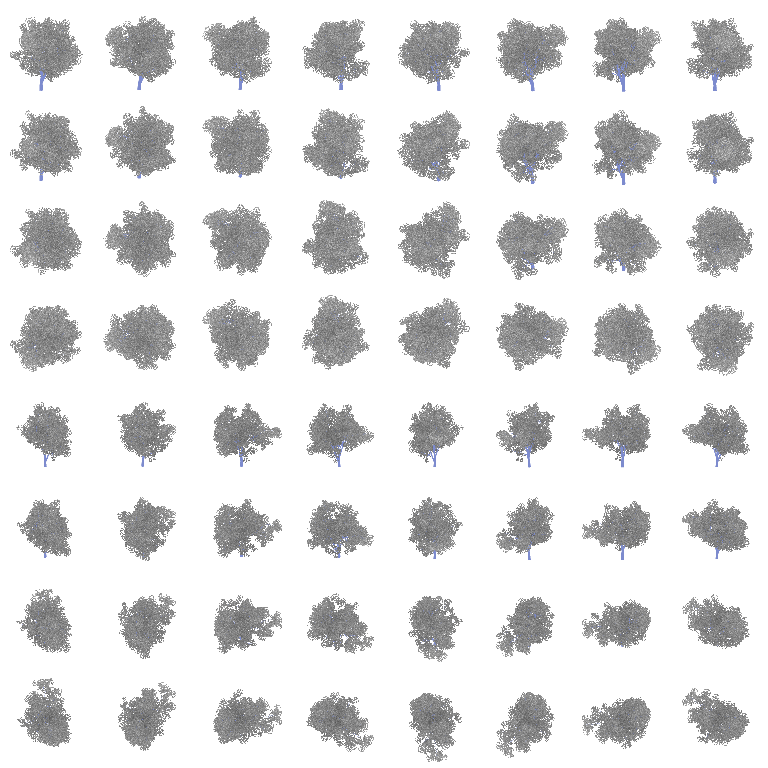
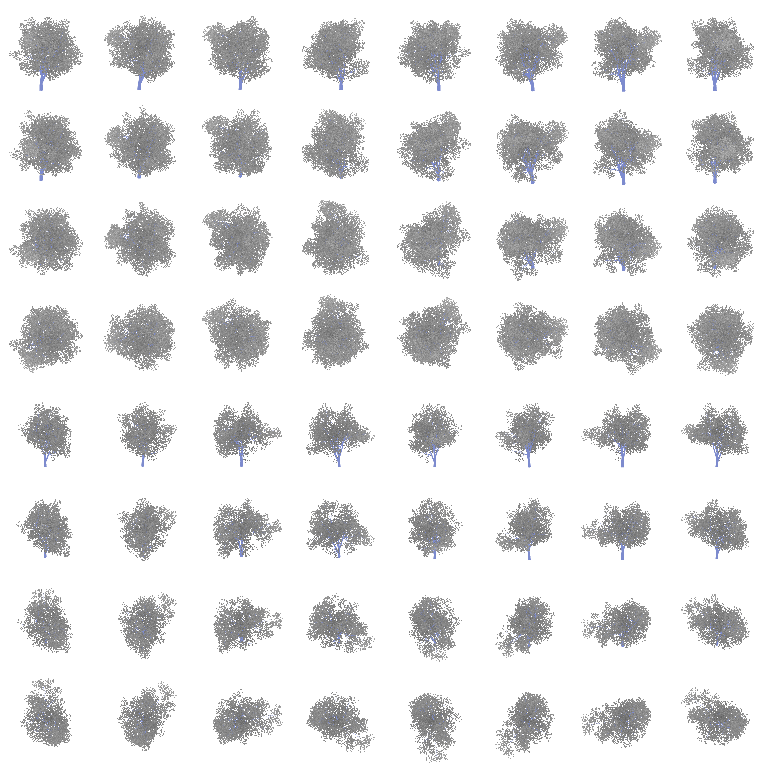
trees-real: real-sized leaves (3-7 cm in sprigs on a 512 px card), upload only the instances in use

diff --git a/v2/trees-real.js b/v2/trees-real.js
@@ -137,7 +137,7 @@ export async function installRealTrees({ THREE, scene, group, redraw, rows, grou
     const col = leafTint(sp);
     const m = new THREE.MeshPhysicalMaterial({ specularIntensity: L.SPECULAR, map: (mid ? leafTexesMid : leafTexes)[kind], color: col, vertexColors: true, side: THREE.DoubleSide, alphaTest: L.ALPHA_CUT, alphaToCoverage: msaa, roughness: L.LEAF_ROUGHNESS, metalness: 0 });
     m.onBeforeCompile = (sh) => {
-      fadeShader(sh, false, mid ? 'vMapUv * 256.0' : 'vMapUv * 256.0', mid ? [-99, -98] : undefined);
+      fadeShader(sh, false, mid ? 'vMapUv * 512.0' : 'vMapUv * 512.0', mid ? [-99, -98] : undefined);
       // the cards' normals are the crown's own (outward + up): do not flip them on the back face
       sh.fragmentShader = sh.fragmentShader.replace('#include <normal_fragment_begin>', THREE.ShaderChunk.normal_fragment_begin.replace('normal *= faceDirection;', ''));
     };
@@ -266,6 +266,8 @@ export async function installRealTrees({ THREE, scene, group, redraw, rows, grou
     arr[o + 12] = x; arr[o + 13] = y; arr[o + 14] = z; arr[o + 15] = 1;
   };
   const JIT = L.SHADE_JITTER;
+  // upload only the instances in use (the buffers are sized for every tree of the bucket)
+  const up = (a, n) => { a.clearUpdateRanges(); a.addUpdateRange(0, n * a.itemSize); a.needsUpdate = true; };
   function update(camera) {
     const t0 = performance.now();
     camera.updateMatrixWorld();
@@ -316,11 +318,11 @@ export async function installRealTrees({ THREE, scene, group, redraw, rows, grou
       for (let vi = 0; vi < buckets[si].length; vi++) {
         const bk = buckets[si][vi];
         for (const [meshes, cnt] of [[bk.near, nearN[si][vi]], [bk.mid, midN[si][vi]]]) {
-          for (const m of [meshes.leaf, meshes.trunk]) { m.count = cnt; m.visible = cnt > 0; if (cnt) { m.instanceMatrix.needsUpdate = true; m.instanceColor.needsUpdate = true; m.fadeAttr.needsUpdate = true; } }
+          for (const m of [meshes.leaf, meshes.trunk]) { m.count = cnt; m.visible = cnt > 0; if (cnt) { up(m.instanceMatrix, cnt); up(m.instanceColor, cnt); up(m.fadeAttr, cnt); } }
         }
         nearN[si][vi] = 0; midN[si][vi] = 0;
       }
-      const f = far[si]; f.count = farN[si]; f.visible = f.count > 0; if (f.count) { f.instanceMatrix.needsUpdate = true; f.instanceColor.needsUpdate = true; f.impAttr.needsUpdate = true; } farN[si] = 0;
+      const f = far[si]; f.count = farN[si]; f.visible = f.count > 0; if (f.count) { up(f.instanceMatrix, f.count); up(f.instanceColor, f.count); up(f.impAttr, f.count); } farN[si] = 0;
     }
     stats.near = nN; stats.mid = nM; stats.far = nF; stats.updates++; stats.ms = performance.now() - t0;
   }

diff --git a/tools/trees/gen.js b/tools/trees/gen.js
@@ -53,14 +53,18 @@ const SPECIES = {
 
 // ── leaf-clump card textures (neutral grey, alpha): the card holds a CLUSTER, so a few cards make a crown ──────────────────
 function leafCanvas(kind, seed) {
-  const N = 256, c = document.createElement('canvas'); c.width = c.height = N; const g = c.getContext('2d'); const R = mulberry(seed);
+  const N = kind === 'broad' ? 512 : 256, c = document.createElement('canvas'); c.width = c.height = N; const g = c.getContext('2d'); const R = mulberry(seed);
   const grey = (lo, hi) => { const v = Math.round(lo + R() * (hi - lo)); return `rgb(${v},${v},${v})`; };
   if (kind === 'broad') {
-    for (let i = 0; i < 52; i++) {
-      const a = R() * 6.283, r = Math.sqrt(R()) * 96, x = N / 2 + Math.cos(a) * r, y = N / 2 + Math.sin(a) * r * 0.92;
-      const L = 24 + R() * 22, W = 10 + R() * 8, rot = R() * 6.283;
-      g.save(); g.translate(x, y); g.rotate(rot); g.fillStyle = grey(150, 255);
-      g.beginPath(); g.ellipse(0, 0, L / 2, W / 2, 0, 0, 6.283); g.fill(); g.restore();
+    // a card is ~2 m across at 512 px (1 px = 0.4 cm): live-oak / elm leaves are 3-7 cm, so 8-16 px long, in sprigs of 6-9 leaves
+    for (let c = 0; c < 135; c++) {
+      const a = R() * 6.283, r = Math.sqrt(R()) * 215, cx = N / 2 + Math.cos(a) * r, cy = N / 2 + Math.sin(a) * r * 0.92, dir = R() * 6.283, n = 6 + Math.floor(R() * 4);
+      for (let k = 0; k < n; k++) {
+        const t = (k / n - 0.4) * 34, lx = cx + Math.cos(dir) * t + (R() - 0.5) * 14, ly = cy + Math.sin(dir) * t + (R() - 0.5) * 14;
+        const L = 12 + R() * 8, Wd = 5 + R() * 4, rot = dir + (R() - 0.5) * 2.4;
+        g.save(); g.translate(lx, ly); g.rotate(rot); g.fillStyle = grey(150, 255);
+        g.beginPath(); g.ellipse(0, 0, L / 2, Wd / 2, 0, 0, 6.283); g.fill(); g.restore();
+      }
     }
   } else {   // feathery sprays of scale leaves / needles
     g.lineCap = 'round';
